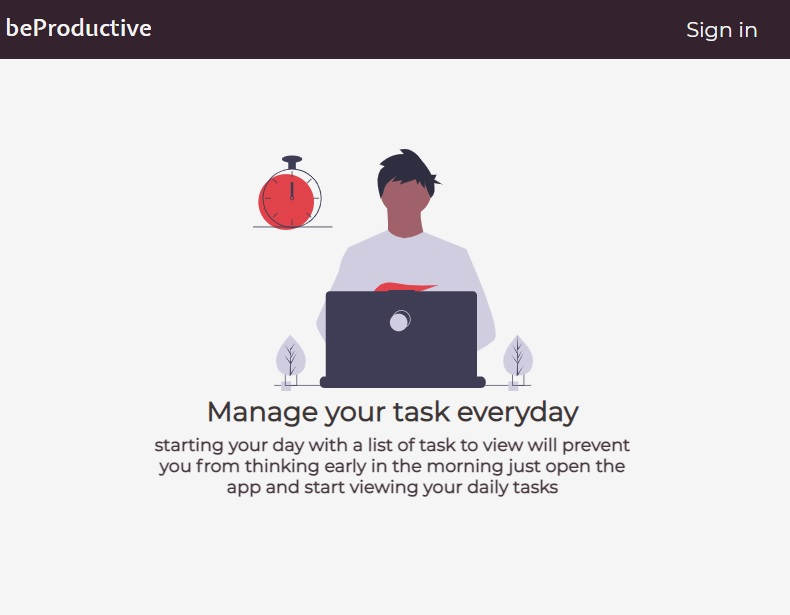
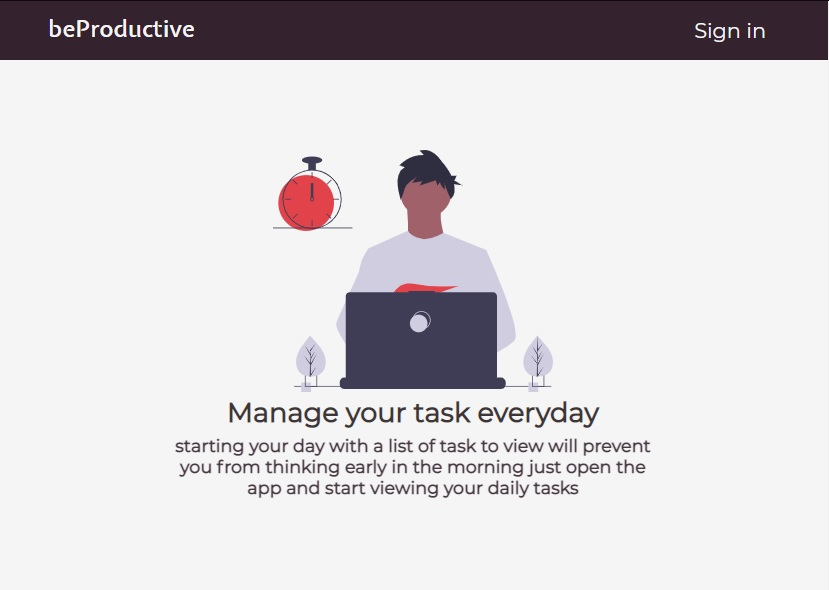
update

diff --git a/index.html b/index.html
@@ -44,6 +44,13 @@
              games, business or personal website<br> 
              mern is a reliable stack.
         </p>
+        <p class="left-cnt-mobo">
+            Build dynamic websites using Mern Stack. 
+            building complicated website is easier and 
+             more functional than before, whether it be
+             games, business or personal website
+             mern is a reliable stack.
+        </p>
         <div class="aligned">
           <a href="#about" class="moreinfo">for more info scroll down.</a>
         </div>
@@ -69,15 +76,15 @@
         <h2 class="about-ttle">How i started</h2>
         <p class="about-paragraph">
 
-            Few years ago, i made a website using php/mysql <br />
-            i was very satisfied for what I've made that day <br />
+            Few years ago, I made a website using php/mysql <br />
+            I was very satisfied for what I've made that day <br />
             even it's just a simple blog about games. 
             <br /><br />
 
-            I started to be more serious when i found the Mern Stack. <br />
+            I started to be more serious when I found the Mern Stack. <br />
             Building Complex website has never been easier with this stack <br />
             Later on I started to read more articles and blogs watch tutorials, make <br />
-             websites in my spare time and that is how i began in <span class="webdev">Web Development.</span> <br />
+             websites in my spare time and that is how I began in <span class="webdev">Web Development.</span> <br />
             <br />
             here are some of the recent tools that i've been using.
         </p>
@@ -91,17 +98,17 @@
     <div class="about-cnt-mobo">
         <h2 class="about-ttle">How i started</h2>
         <p class="about-paragraph">
-            Few years ago, i made a website using php/mysql 
-            i was very satisfied for what I've made that day 
+            Few years ago, I made a website using php/mysql 
+            I was very satisfied for what I've made that day 
             even it's just a simple blog about games. 
             <br /><br />
 
-            I started to be more serious when i found the Mern Stack. 
+            I started to be more serious when I found the Mern Stack. 
             Building Complex website has never been easier with this stack, 
             Later on I started to read more articles and blogs watch tutorials, make 
-             websites in my spare time and that is how i began in <span class="webdev">Web Development.</span> <br />
+             websites in my spare time and that is how I began in <span class="webdev">Web Development.</span> <br />
             <br />
-            recent tools that i've been using.
+            recent tools that I've been using.
             
         </p>
         <ul class="about-ul">
@@ -146,8 +153,8 @@
                 </ul>
                 <p class="proj-story">
                     Organizing my task list will be so helpful for me to remember 
-                    the task that i should do next, I built this website so i can easily see 
-                    what my next task is, i built this with simplicity so everyone can use it.
+                    the task that I should do next, I built this website so I can easily see 
+                    what my next task is, I built this with simplicity so everyone can use it.
                 </p>
                 <ul class="proj-tools">
                     <li class="tool">ReactJs</li>

diff --git a/css/styles.css b/css/styles.css
@@ -110,6 +110,10 @@ header {
   background-color: #f9f9f9;
 }
 
+.left-cnt-mobo {
+  display: none;
+}
+
 .moreinfo {
   text-decoration: none;
   margin-top: 80px;
@@ -256,7 +260,7 @@ header {
     color: #113a5d;
     font-family: "Alegreya Sans", sans-serif;
     font-weight: 100;
-    font-size: 2.9rem;
+    font-size: 2.6rem;
     margin-bottom: -5px;
   }
   .hi {
@@ -264,23 +268,22 @@ header {
     font-family: "Encode Sans", sans-serif;
   }
   .left-cnt {
-    font-size: 1.2rem;
-    font-family: "Montserrat", sans-serif;
-    color: #062743;
+    display: none;
   }
   .right-side {
     display: none;
   }
   .mobile-title {
+    margin-bottom: 12px;
+    font-size: 1.7rem;
+    opacity: 0.7;
+    letter-spacing: 1px;
+  }
+  .left-cnt-mobo {
     display: block;
+    font-size: 1.1rem;
     font-family: "Montserrat", sans-serif;
-    width: 100%;
-    color: #28615b;
-    text-align: left;
-    letter-spacing: 2px;
-    margin-bottom: 20px;
-    font-size: 2rem;
-    opacity: 0.5;
+    color: #062743;
   }
 }
 
@@ -534,7 +537,7 @@ header {
 }
 
 .proj-images {
-  width: 520px;
+  width: 470px;
   cursor: pointer;
   position: relative;
   height: 380px;
@@ -557,43 +560,6 @@ header {
   top: 0;
 }
 
-.sproj-box {
-  display: -webkit-box;
-  display: -ms-flexbox;
-  display: flex;
-  -webkit-box-pack: end;
-      -ms-flex-pack: end;
-          justify-content: flex-end;
-  -webkit-box-align: start;
-      -ms-flex-align: start;
-          align-items: flex-start;
-  margin-bottom: 100px;
-}
-
-.sproj-images {
-  width: 520px;
-  cursor: pointer;
-  position: relative;
-  height: 310px;
-  margin-left: 30px;
-}
-
-.sproj-a {
-  position: absolute;
-  top: 0;
-  left: 0;
-  right: 0;
-  bottom: 0;
-}
-
-.sprojimg {
-  height: 100%;
-  width: 100%;
-  position: absolute;
-  left: 0;
-  top: 0;
-}
-
 @media (max-width: 1100px) {
   .projects-page {
     padding: 100px 10px;
@@ -605,20 +571,17 @@ header {
     font-family: "Expletus Sans", cursive;
     font-size: 2.6rem;
   }
-  .proj-name,
-  .sproj-name {
+  .proj-name {
     font-size: 1.8rem;
   }
-  .proj-list,
-  .sproj-list {
+  .proj-list {
     list-style: none;
     color: #062743;
     font-family: "Montserrat", sans-serif;
     padding-left: 5px;
     margin-bottom: 29px;
   }
-  .proj-li,
-  .sproj-li {
+  .proj-li {
     margin-bottom: 3px;
   }
   .proj-story {
@@ -629,7 +592,7 @@ header {
   }
 }
 
-@media (max-width: 900px) {
+@media (max-width: 700px) {
   .right-side {
     display: none;
   }
@@ -648,7 +611,7 @@ header {
   .proj-images {
     margin-bottom: 30px;
     width: 100%;
-    height: 500px;
+    height: 430px;
   }
   .proj-story {
     width: 100%;

diff --git a/css/styles.scss b/css/styles.scss
@@ -102,6 +102,9 @@ header {
   padding: 100px 40px;
   background-color: $first;
 }
+.left-cnt-mobo {
+  display: none;
+}
 .moreinfo {
   text-decoration: none;
   margin-top: 80px;
@@ -228,7 +231,7 @@ header {
     color: $third;
     font-family: $alegreya;
     font-weight: 100;
-    font-size: 2.9rem;
+    font-size: 2.6rem;
     margin-bottom: -5px;
   }
   .hi {
@@ -236,24 +239,23 @@ header {
     font-family: $encodesans;
   }
   .left-cnt {
-    font-size: 1.2rem;
-    font-family: $mons;
-    color: $fourth;
+    display: none;
   }
   .right-side {
     display: none;
   }
 
   .mobile-title {
+    margin-bottom: 12px;
+    font-size: 1.7rem;
+    opacity: 0.7;
+    letter-spacing: 1px;
+  }
+  .left-cnt-mobo {
     display: block;
+    font-size: 1.1rem;
     font-family: $mons;
-    width: 100%;
-    color: $second;
-    text-align: left;
-    letter-spacing: 2px;
-    margin-bottom: 20px;
-    font-size: 2rem;
-    opacity: 0.5;
+    color: $fourth;
   }
 }
 
@@ -445,7 +447,7 @@ header {
   padding: 0 40px;
 }
 .proj-images {
-  width: 520px;
+  width: 470px;
   cursor: pointer;
   position: relative;
   height: 380px;
@@ -466,35 +468,6 @@ header {
   top: 0;
 }
 
-// RIGHT BOX
-
-.sproj-box {
-  display: flex;
-  justify-content: flex-end;
-  align-items: flex-start;
-  margin-bottom: 100px;
-}
-.sproj-images {
-  width: 520px;
-  cursor: pointer;
-  position: relative;
-  height: 310px;
-  margin-left: 30px;
-}
-.sproj-a {
-  position: absolute;
-  top: 0;
-  left: 0;
-  right: 0;
-  bottom: 0;
-}
-.sprojimg {
-  height: 100%;
-  width: 100%;
-  position: absolute;
-  left: 0;
-  top: 0;
-}
 ///////////////////// MOBO SIZE PROJECTS STYLE
 @media (max-width: 1100px) {
   // MERN PROJECTS STYLES
@@ -508,21 +481,18 @@ header {
     font-family: $expletus;
     font-size: 2.6rem;
   }
-  .proj-name,
-  .sproj-name {
+  .proj-name {
     font-size: 1.8rem;
   }
 
-  .proj-list,
-  .sproj-list {
+  .proj-list {
     list-style: none;
     color: $fourth;
     font-family: $mons;
     padding-left: 5px;
     margin-bottom: 29px;
   }
-  .proj-li,
-  .sproj-li {
+  .proj-li {
     margin-bottom: 3px;
   }
   .proj-story {
@@ -532,7 +502,7 @@ header {
     width: 340px;
   }
 }
-@media (max-width: 900px) {
+@media (max-width: 700px) {
   // eto sa front-page isa lang
   .right-side {
     display: none;
@@ -548,7 +518,7 @@ header {
   .proj-images {
     margin-bottom: 30px;
     width: 100%;
-    height: 500px;
+    height: 430px;
   }
 
   .proj-story {
